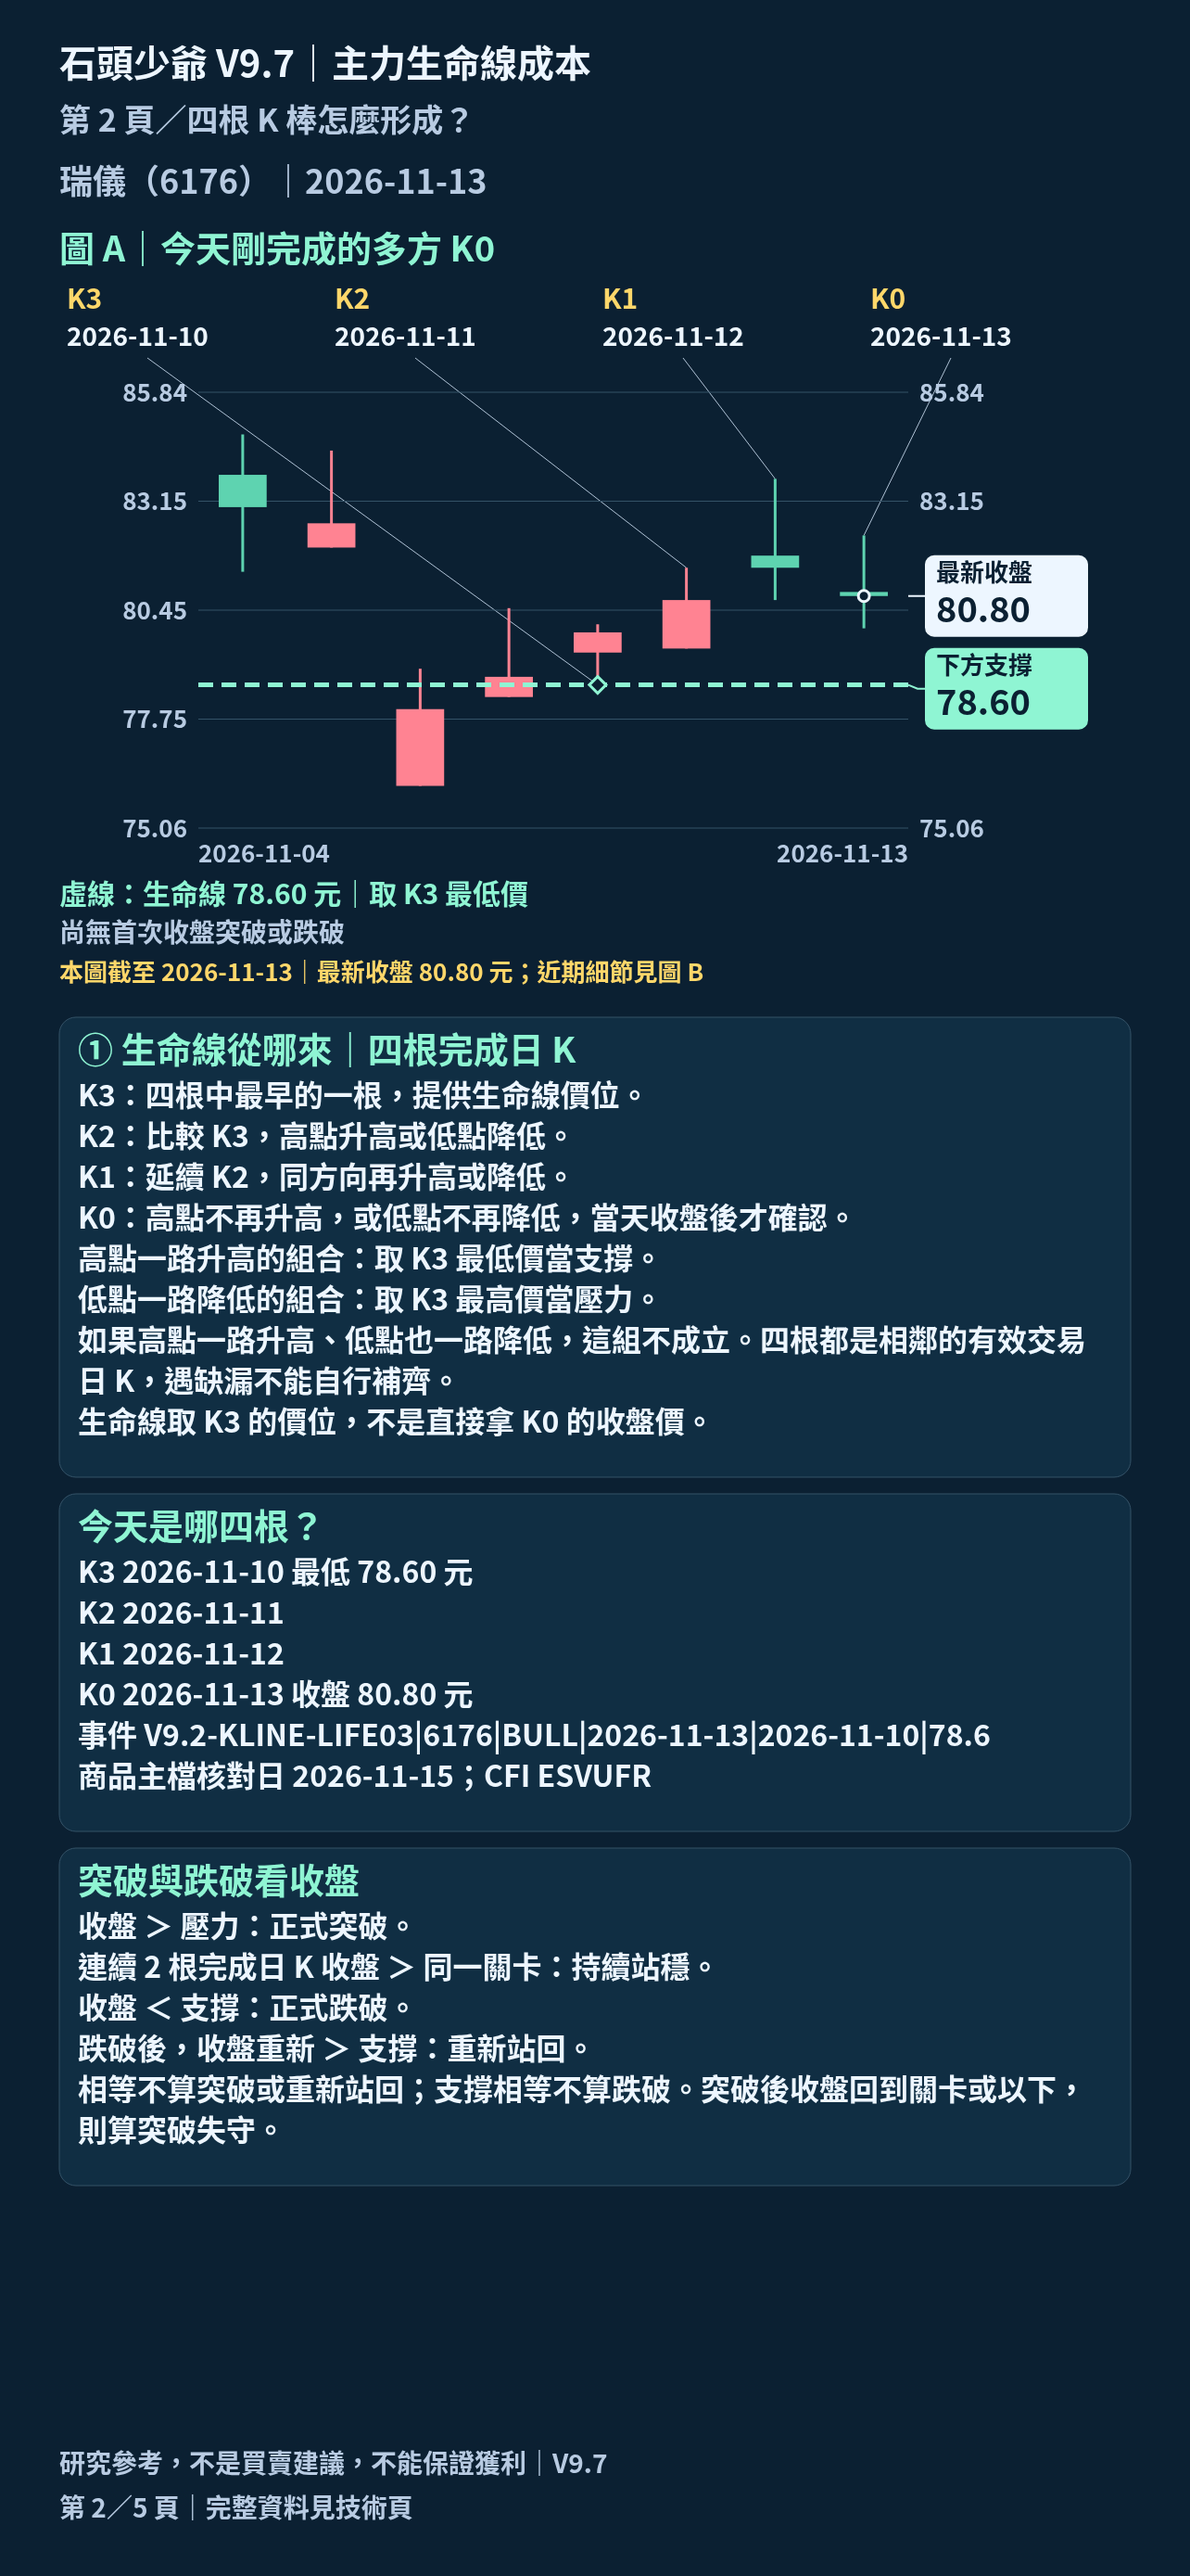
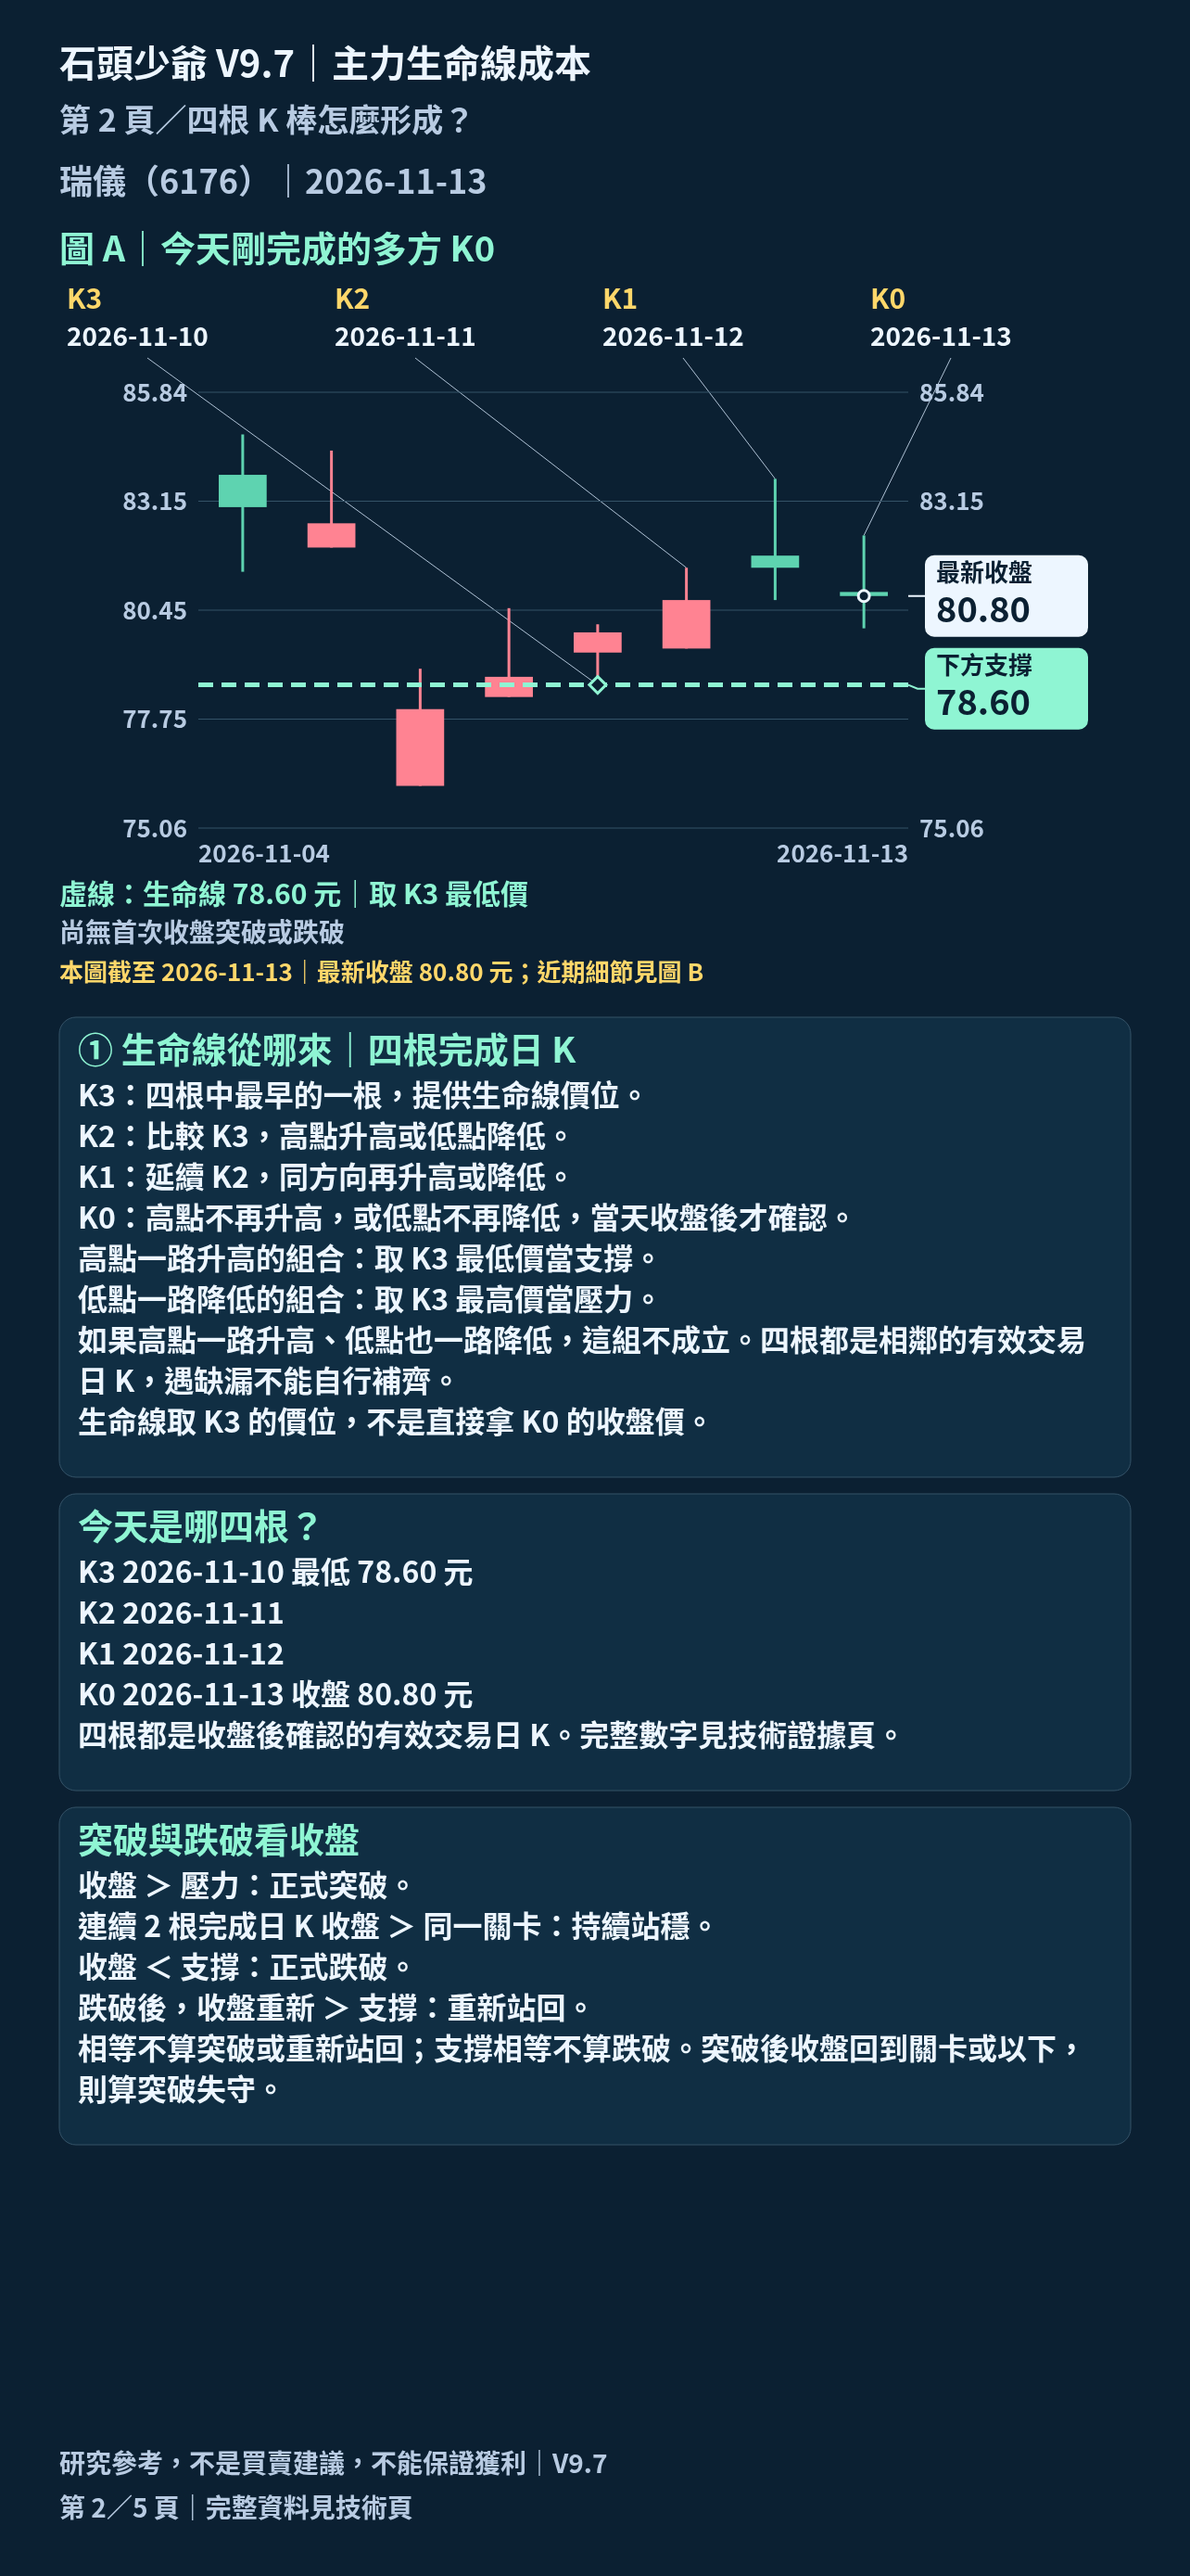
refactor: 教學頁採白話並於技術頁完整保留四根日 K 證據

Changed region(s): [[0.0623, 0.6501, 0.81, 0.8359], [0.5919, 0.7739, 0.8723, 0.8359]]

diff --git a/main-force-lifeline-report-v97.js b/main-force-lifeline-report-v97.js
@@ -4,7 +4,7 @@ const fmt=n=>typeof n==='number'&&Number.isFinite(n)?n.toFixed(2):'資料不足'
 function fields(record){
  if(record?.kind!=='NEWBORN'||record.event?.k0Date!==record.date||record.seed?.eventId!==record.eventId||record.raw?.closeDate!==record.date)throw Error('報告必須綁定同一檔、同一天的新生 K0');
  const r=record,t=r.indicators,source=r.liquidityProof;
- return [{title:'今天為什麼入選？',value:'今天收盤剛形成多方 K0；完整名單不等於正式候選。\n'+r.conclusion},
+ return [{title:'今天為什麼入選？',value:(r.formalCandidate?'今天形成多方 K0，通過目前設定的資格與風險門檻，列為 '+r.grade+' 級研究。':'今天有新生多方 K0，但未列正式候選。')+'\n'+r.conclusion},
  {title:'生命線不是主力真實成本',value:'這條線取過去四根 K 棒中 K3 的最低價，作為觀察支撐的重要位置；不能證明主力或法人實際買進成本。靠近這條線也不保證上漲。'},
  {title:'量能與流動性',value:'今天成交金額 '+(source&&r.tradeValue!==null?r.tradeValue.toLocaleString('zh-TW')+' 元':'待核對')+'；最低研究門檻三千萬元。\n量比是今天成交量相對前5個交易日平均的倍數：'+(r.volumeVerified?fmt(r.volumeRatio)+' 倍':'成交量待核對，暫不作量能確認')+'。'},
  {title:'明天可以觀察什麼？',value:'適合繼續觀察｜'+r.scenarios.A+'\n追價風險太高｜'+r.scenarios.B+'\n結構轉弱｜'+r.scenarios.C},
@@ -12,8 +12,9 @@ function fields(record){
  {title:'技術數據｜平均價、漲勢急緩與波動',value:'平均價 MA5 '+fmt(t.ma5)+'；MA10 '+fmt(t.ma10)+'；MA20 '+fmt(t.ma20)+' 元。\n離5日平均價 '+fmt(t.deviation5)+'%；離20日 '+fmt(t.deviation20)+'%。\nRSI 用來觀察最近是否漲得太急：5日 '+fmt(t.rsi5)+'；14日 '+fmt(t.rsi14)+'。\nATR14 是近期平均每日波動金額：'+fmt(t.atr14)+' 元，約收盤 '+fmt(r.atrPct)+'%。\n近10日高 '+fmt(t.recentHigh)+'；低 '+fmt(t.recentLow)+' 元。前20日高點 '+fmt(r.pressure20)+' 元，只是壓力觀察，不保證有效。'},
  {title:'資格與追價風險',value:[...r.missing,...r.excluded,...r.risks].join('\n')||'目前通過設定的研究門檻，仍可能回跌；不代表買進安全。'},
  {title:'資料來源與研究限制',value:'完成日 '+r.date+'；研究 '+r.historyBarCount+' 根日 K。\n股票 '+r.code+'；快照 '+(r.proof?.snapshotId||'未提供')+'。\n歷史檔 SHA256 '+(r.proof?.sha256||'未提供')+'。\n官方成交金額按相同股票、日期及開高低收核對；未以收盤乘股數估算。\n交易所未還原價；除權息事件尚未完整核對。缺少逐日資格及產業資料，不能宣稱歷史獲利效果。\n不自動交易，不改其他五套策略；不是保證買賣價或下單指令。'},
- {title:'原始事件證據',value:['K3 '+r.event.k3Date+' 最低 '+fmt(r.lifeLinePrice)+' 元','K2 '+r.event.k2Date,'K1 '+r.event.k1Date,'K0 '+r.event.k0Date+' 收盤 '+fmt(r.close)+' 元','事件 '+r.eventId,'商品主檔核對日 '+(source?.security?.asOf||'尚未核驗')+'；CFI '+(source?.security?.cfi||'尚未核驗')].join('\n')},
- {title:'成交量及官方來源證據',value:'封存當日成交量 '+(r.raw.dailySeries?.at(-1)?.volume??'未提供')+' 股；前5日平均 '+fmt(r.averageVolume5)+' 股。\n'+(r.volumeVerified?'股數已與當日來源核對。':'成交量待核對，暫不作量能確認；另一官方版本 '+(source?.volume??'未取得')+' 股。')+'\n成交金額來源 '+(source?.source?.url||'來源識別未附，須查掃描快照')+'\n來源 SHA256 '+(source?.source?.sha256||'未提供')+'\n商品主檔 '+(source?.securitySource?.url||'未提供')+'；更新日 '+(source?.security?.asOf||'未核驗')+'。\n商品主檔 SHA256 '+(source?.securitySource?.sha256||'未提供')+'。'}];
+ {title:'原始事件證據',value:['K3 '+r.event.k3Date+' 最低 '+fmt(r.lifeLinePrice)+' 元','K2 '+r.event.k2Date,'K1 '+r.event.k1Date,'K0 '+r.event.k0Date+' 收盤 '+fmt(r.close)+' 元','事件編號 '+r.eventId,'商品主檔核對日 '+(source?.security?.asOf||'尚未核驗')+'；商品分類碼（CFI）'+(source?.security?.cfi||'尚未核驗')+'（'+(source?.security?.type==='COMMON'?'一般普通股':'非普通股或待核對')+'）'].join('\n')},
+ {title:'成交量及官方來源證據',value:'封存當日成交量 '+(r.raw.dailySeries?.at(-1)?.volume??'未提供')+' 股；前5日平均 '+fmt(r.averageVolume5)+' 股。\n'+(r.volumeVerified?'股數已與當日來源核對。':'成交量待核對，暫不作量能確認；另一官方版本 '+(source?.volume??'未取得')+' 股。')+'\n成交金額來源 '+(source?.source?.url||'來源識別未附，須查掃描快照')+'\n來源 SHA256 '+(source?.source?.sha256||'未提供')+'\n商品主檔 '+(source?.securitySource?.url||'未提供')+'；更新日 '+(source?.security?.asOf||'未核驗')+'。\n商品主檔 SHA256 '+(source?.securitySource?.sha256||'未提供')+'。'},
+ {title:'四根原始日 K 數字',value:['K3','K2','K1','K0'].map(k=>{const b=(r.raw.dailySeries||r.raw.sourceBars).find(b=>b.date===r.event[k.toLowerCase()+'Date']);return k+' '+b.date+'｜開 '+fmt(b.open)+'、高 '+fmt(b.high)+'、低 '+fmt(b.low)+'、收 '+fmt(b.close)+' 元；成交 '+b.volume+' 股。';}).join('\n')}];
 }
 function study(record){fields(record);const original=Core.evaluate(record.raw),e=record.event;return {...original,event:e,events:[e],code:record.code,name:record.name,date:record.date,dataAsOf:record.date,close:record.close,lifecycleState:e.lifecycleState,currentRole:e.currentRole,referenceOnly:e.referenceOnly,distancePct:record.distancePct,currentTrend:record.indicators,sourceVolumeAudit:record.volumeVerified?null:{uncertain:true,archiveLastVolume:record.raw.dailySeries?.at(-1)?.volume??null,latestOfficialVolume:record.liquidityProof?.volume??null},originalPrimaryEventId:original.event?.eventId||null,scenario:{summary:record.conclusion,bullish:record.scenarios.A,bearish:record.scenarios.C,pending:['隔日尚未發生，不能用盤後資料代替隔日行情'],confirmed:[]}};}
 function text(record){return ['石頭少爺 V9.7｜主力生命線成本',record.name+'（'+record.code+'）｜'+record.date,'收盤 '+fmt(record.close)+' 元｜生命線 '+fmt(record.lifeLinePrice)+' 元｜價格距離 '+fmt(record.distancePct)+'%','研究 '+record.grade+' 級｜'+record.riskLabel,...fields(record).map(f=>'【'+f.title+'】\n'+f.value)].join('\n\n');}

diff --git a/kline-life-03-pages-v94.js b/kline-life-03-pages-v94.js
@@ -50,7 +50,7 @@ function build(study,display,{document:doc=globalThis.document,watermark=false,p
   start('第 2 頁／四根 K 棒怎麼形成？');
   chart(bars.slice(Math.max(0,bars.length-8)),'圖 A｜今天剛完成的多方 K0',true,830);
   card(display.teaching[1].title,display.teaching[1].value);
-  card('今天是哪四根？',details[8].value);
+  card('今天是哪四根？','K3 '+e.k3Date+' 最低 '+money(r.lifeLinePrice)+'\nK2 '+e.k2Date+'\nK1 '+e.k1Date+'\nK0 '+e.k0Date+' 收盤 '+money(r.close)+'\n四根都是收盤後確認的有效交易日 K。完整數字見技術證據頁。');
   card('突破與跌破看收盤',display.teaching[2].value);
   start('第 3 頁／明天可以觀察什麼？');
   card('情境 A｜可繼續觀察',r.scenarios.A);
@@ -62,7 +62,7 @@ function build(study,display,{document:doc=globalThis.document,watermark=false,p
   start('第 4 頁／完整技術證據與來源');
   chart(bars.slice(-10),'圖 B｜最近股價、平均價與成交量',false,730);
   card('研究與圖表根數','研究 '+bars.length+' 根完成日 K；圖 A '+Math.min(8,bars.length)+' 根；圖 B '+Math.min(10,bars.length)+' 根。兩張圖各自使用價格座標。');
-  for(const index of [5,4,6,9,7])card(details[index].title,details[index].value);
+  for(const index of [5,4,6,8,10,9,7])card(details[index].title,details[index].value);
   card('回頭測試與歷史參考',display.teaching[3].value);
  }else{
  // Page 1: independently useful current analysis. Detailed provenance belongs on the technical page.
